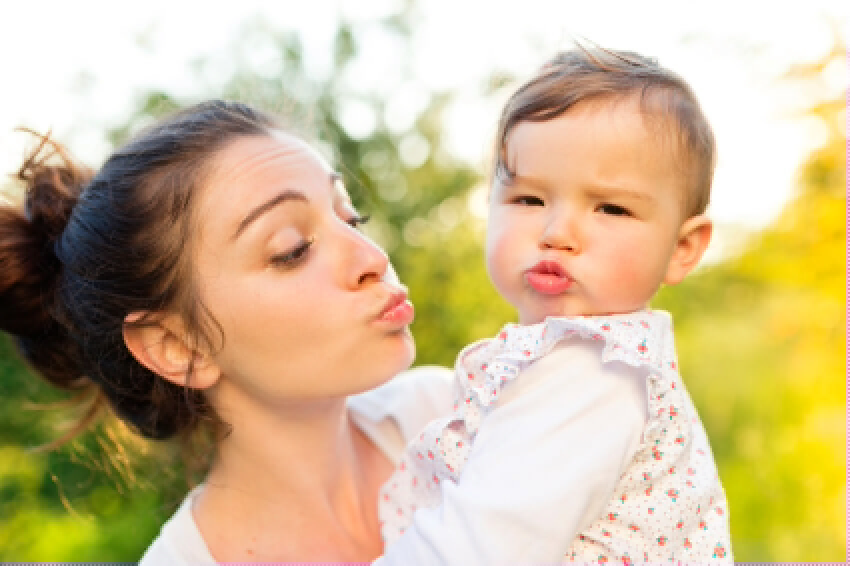
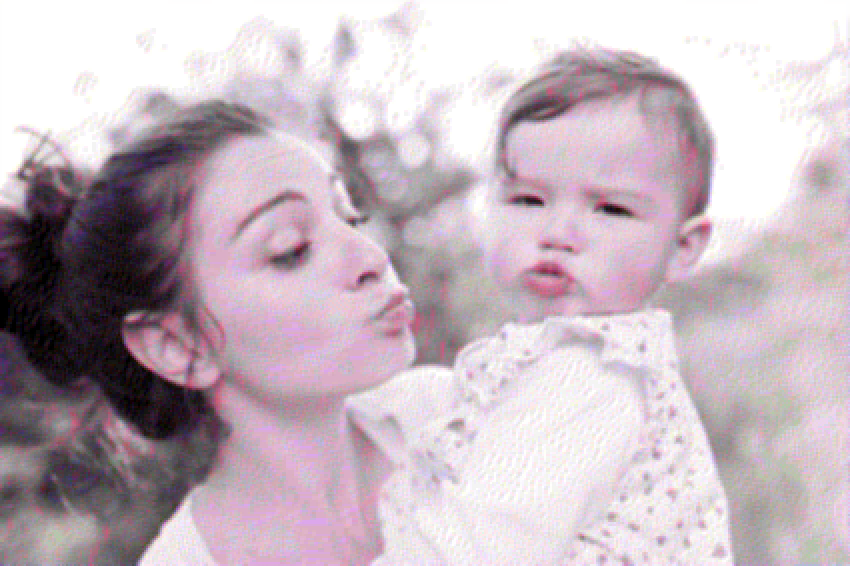
refatoração de alguns trechos

diff --git a/distortion_simulator.py b/distortion_simulator.py
@@ -2,7 +2,7 @@ import cv2
 import numpy as np
 
 
-#Difusão de erros usando o método de Floyd-Steinberg.
+# Função que aplica uma difusão de erros usando o método de Floyd-Steinberg.
 def error_diffusion(img, size=(1, 1)):
 	img = np.float32(img)
 
@@ -18,11 +18,14 @@ def error_diffusion(img, size=(1, 1)):
 	return img
 
 
-def simulacao(img, K=1):
+# Função que simula a distorção gerada pelo processo de impressão seguida de digitalização
+def print_scan(img_name, K=1):
+
+	img = cv2.imread('Texturizadas/%s' % img_name, 0)
 
 	#redimensiona a imagem
 	img = cv2.resize(img, (K * img.shape[1], K * img.shape[0]), interpolation=cv2.INTER_AREA)
-	
+
 	# aplica um error diffusion
 	img = error_diffusion(img, img.shape)
 	# aplica um filtro de média
@@ -32,22 +35,4 @@ def simulacao(img, K=1):
 	#volta a imagem para o tamanho original
 	img = cv2.resize(img, (int(img.shape[1] / K), int(img.shape[0] / K)), interpolation=cv2.INTER_AREA)
 
-	return img
-
-if __name__ == '__main__':
-	
-	img = cv2.imread('Imagens/alegria.png', 0)
-	'''
-	cv2.imshow('Imagem Original', img)
-	img = error_diffusion(img, img.shape)
-	cv2.imshow('Imagem Halftoning', img)
-	#img = Median_filter3x3(img)
-	kernel = np.ones((5, 5), np.float32) / 25
-	img = np.uint8(cv2.filter2D(img, -1, kernel))
-	cv2.imshow('Imagem filtrada', img)
-	'''
-	img = simulacao(img)
-	cv2.imshow('teste', img)
-
-	cv2.waitKey(0)
-	cv2.destroyAllWindows()
+	cv2.imwrite('Texturizadas/%s' % img_name, img)

diff --git a/main.py b/main.py
@@ -1,6 +1,6 @@
-import recovering_color as rec
-import incorporacao as inc
-import simulador_distorcao as sdist
+import color_recovering as rec
+import color_incorporation as inc
+import distortion_simulator as sdist
 import cv2
 import sys
 import glob
@@ -14,15 +14,14 @@ if __name__ == "__main__":
 
         if '--all' in sys.argv:
                 for fl in glob.glob("Imagens/*.png"):
-                        inc.incorporar_cor(fl[8:], printar)
+                        inc.color_incorporation(fl[8:], printar)
+                        sdist.print_scan(fl[8:])
                         rec.color_recover(fl[8:], printar)
-
+                                     
         else:
                 print("Digite o nome da imagem que você deseja transformar:")
                 img_name = input()
 
-                inc.incorporar_cor(img_name, printar)
-              	# img = cv2.imread('Texturizadas/%s' % img_name, 0)
-                #img = sdist.simulacao(img)
-                #cv2.imwrite('Texturizadas/%s' % img_name, img)
+                inc.color_incorporation(img_name, printar)
+                sdist.print_scan(img_name)
                 rec.color_recover(img_name, printar)

diff --git a/color_incorporation.py b/color_incorporation.py
@@ -5,10 +5,10 @@ import matplotlib.pyplot as plt
 
 
 # Converte uma imagem no modelo de cores BGR para YCrCb
-def Convert_BGR2YCC(Img):
-    Y = Img[:, :, 0] * 0.114 + Img[:, :, 1] * 0.587 + Img[:, :, 2] * 0.299
-    Cr = 0.713 * Img[:, :, 2] - 0.713 * Y[:, :]
-    Cb = 0.564 * Img[:, :, 0] - 0.564 * Y[:, :]
+def Convert_BGR2YCC(img):
+    Y = img[:, :, 0] * 0.114 + img[:, :, 1] * 0.587 + img[:, :, 2] * 0.299
+    Cr = 0.713 * img[:, :, 2] - 0.713 * Y[:, :]
+    Cb = 0.564 * img[:, :, 0] - 0.564 * Y[:, :]
 
     return cv2.merge([Y, Cr, Cb])
 
@@ -36,7 +36,7 @@ def plus_minus(img):
 
 
 # Função que irá criar a imagem texturizada
-def incorporar_cor(name, printar):
+def color_incorporation(name, printar):
     img = cv2.imread('Imagens/%s' % name)
 
     # Convertendo a imagem

diff --git a/color_recovering.py b/color_recovering.py
@@ -2,7 +2,7 @@ import cv2
 import numpy as np
 import pywt
 import matplotlib.pyplot as plt
-import incorporacao as inc
+import color_incorporation as inc
 
 
 # Função que faz todo o procedimento inverso
